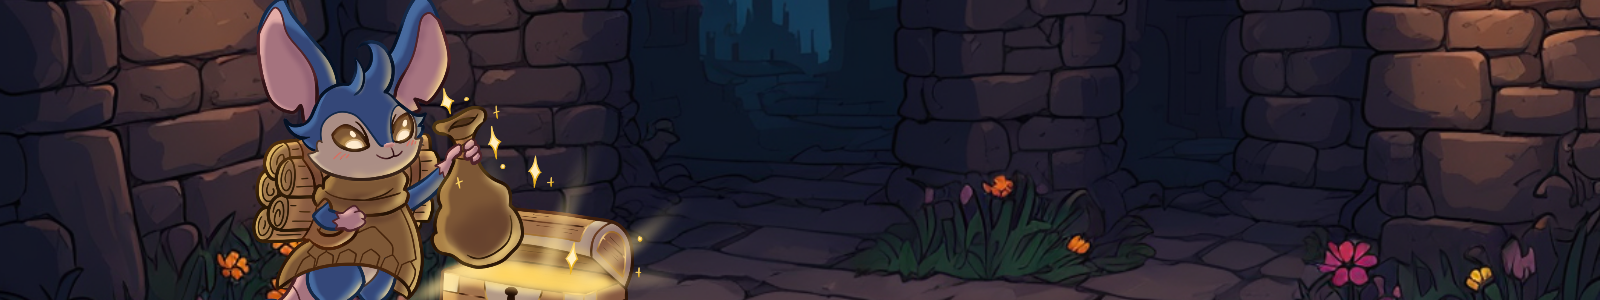
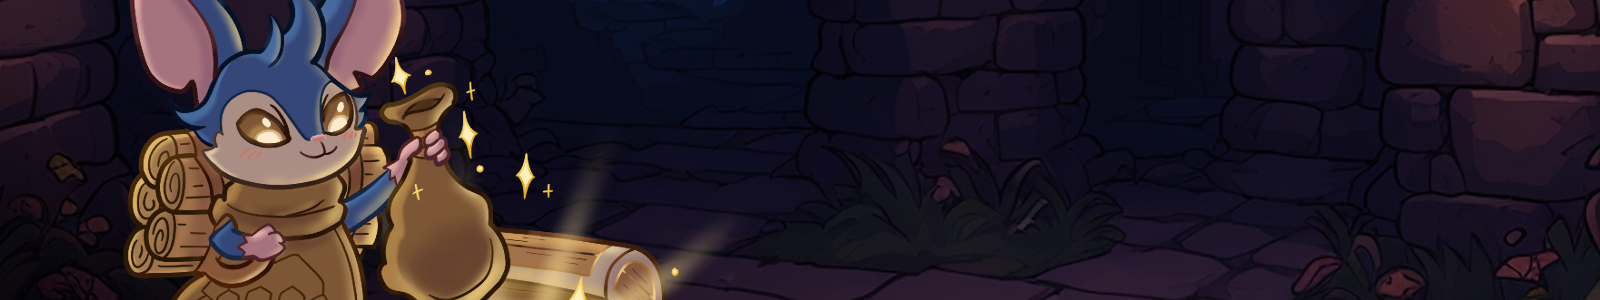
Updated header images, made our mission margins full page

diff --git a/_layouts/our-mission.html b/_layouts/our-mission.html
@@ -1,0 +1,30 @@
+---
+layout: default
+---
+<!-- Post Featured Image -->
+{% if page.image %}
+<div class="text-center mx-auto mb-5">
+  <img class="featured-image text-center mx-auto rounded" src="{{ site.baseurl }}/{{ page.image }}" alt="{{ page.title }}">
+</div>
+{% endif %}
+<!-- End Featured Image -->
+
+{% include header.html %}
+
+<div class="col-lg-auto mx-auto">
+
+  <div class="mainheading">
+    <h1 class="posttitle">{{ page.title }}</h1>
+  </div>
+
+  <div class="article-post serif-font">
+    {{content}}
+  </div>
+
+  {% if page.comments == true %}
+  <div id="comments">             
+      {% include disqus.html %} 
+  </div>
+  {% endif %}
+
+</div>

diff --git a/_includes/header.html b/_includes/header.html
@@ -1,4 +1,4 @@
-{% assign randomNumber = "now" | date: "%N" | modulo: 4 | plus: 1 %}
+{% assign randomNumber = "now" | date: "%N" | modulo: 5 | plus: 1 %}
 <div >
-    <img class="page-header" src="{{ site.baseurl }}/assets/images/headers/1.png">
+    <img class="page-header" src="{{ site.baseurl }}/assets/images/headers/{{ randomNumber }}.png">
 </div>

diff --git a/pages/our-mission.md b/pages/our-mission.md
@@ -1,5 +1,5 @@
 ---
-layout: page
+layout: our-mission
 title: Our Mission
 permalink: "/our-mission/"
 comments: false
